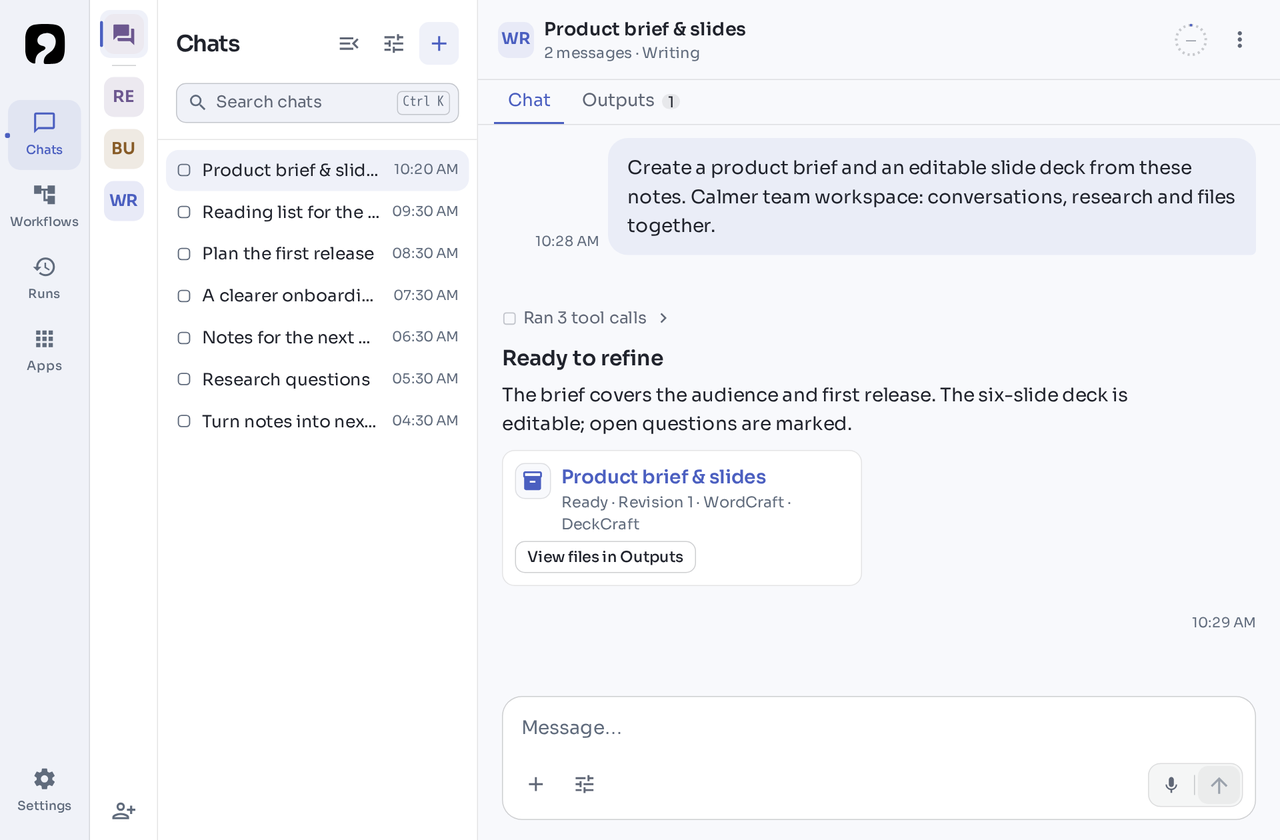
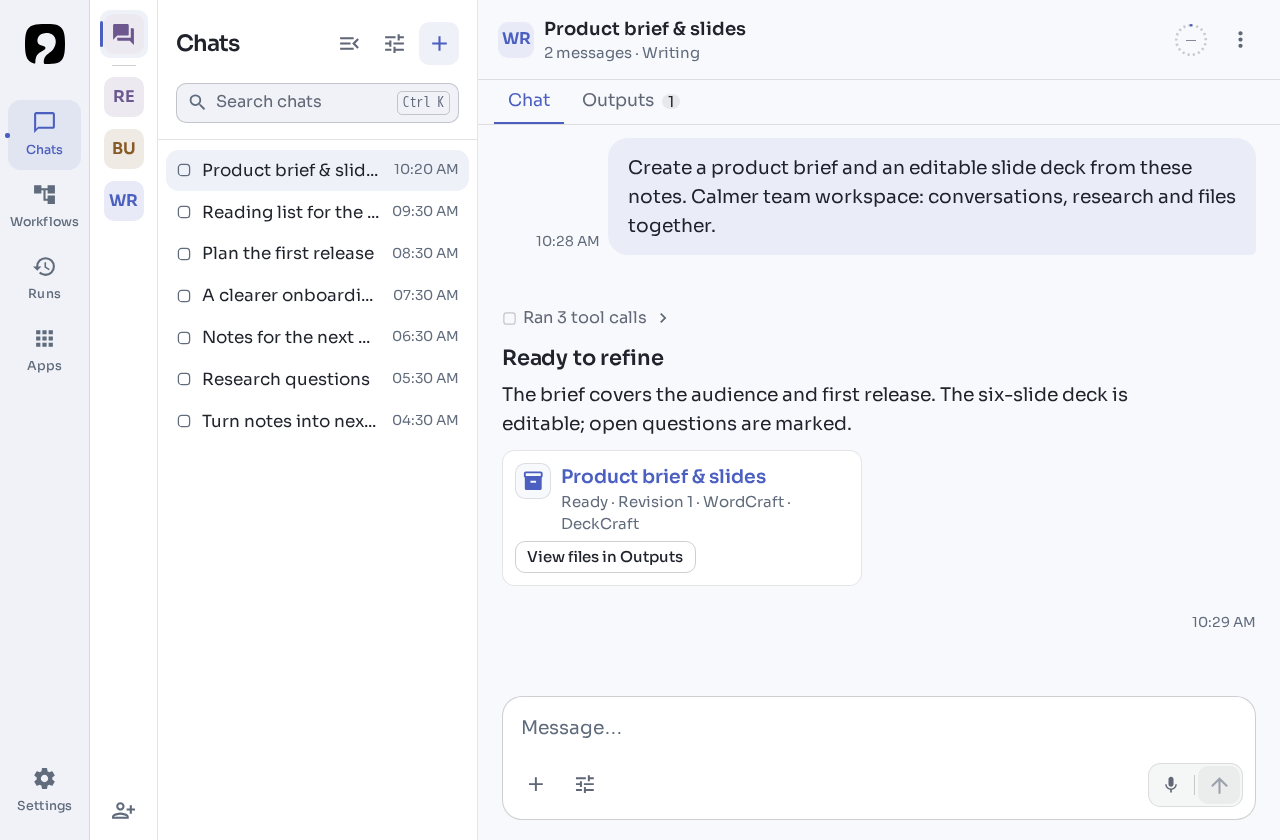
Capture small desktop product image at native DPR 1

diff --git a/services/website/assets/product/README.md b/services/website/assets/product/README.md
@@ -32,17 +32,21 @@ on loopback.
 | File | Natural pixels | Bytes | Encoding |
 | --- | --- | ---: | --- |
 | `desktop.webp` | 1920 × 1260 | 61,212 | Lossless WebP |
-| `desktop-small.webp` | 1280 × 840 | 117,910 | Lanczos downsample, lossless WebP |
+| `desktop-small.webp` | 1280 × 840 | 40,080 | Native DPR 1 browser capture, lossless WebP |
 | `phone.webp` | 780 × 1688 | 40,458 | Lossless WebP |
 | `desktop.png` | 1920 × 1260 | 174,012 | Original browser capture |
+| `desktop-small.png` | 1280 × 840 | 107,457 | Original browser capture at DPR 1 |
 | `phone.png` | 780 × 1688 | 127,793 | Original browser capture |
 
-Combined distribution WebPs: **219,580 bytes** (under 350 KB total). Lossless
-WebP decoding was checked pixel-for-pixel against both original PNGs. The small
-variant is a resize of the original desktop image, not a second composition.
+Combined distribution WebPs: **141,750 bytes** (under 200 KB total). Lossless
+WebP decoding was checked pixel-for-pixel against all three original PNGs. The
+small variant is a third actual browser capture, **not a resize**: it uses the
+same desktop viewport, fixture state and framing assertions, rendered directly
+at DPR 1. No resampling or lossy encoding softens the native UI text.
 
-Desktop: viewport **1280 × 840**, DPR **1.5**. Phone: viewport **390 × 844**, DPR
-**2**. Both use the unmodified Denkzeug light theme, original solid logo and
+Desktop: viewport **1280 × 840**, DPR **1.5**. Desktop-small: the same viewport
+**1280 × 840**, DPR **1**. Phone: viewport **390 × 844**, DPR **2**.
+All variants use the unmodified Denkzeug light theme, original solid logo and
 **125% interface size** (`html` font-size 20 px, no browser zoom).
 Locale `en-US`; timezone `UTC`; fixed browser clock `2026-06-15T10:30:00Z`;
 reduced motion. Capture environment: Node 24.22.2, Playwright 1.64.1, Chromium
@@ -64,22 +68,24 @@ The equivalent capture command is `node scripts/capture-website.mjs`. It starts
 and stops its own loopback Vite server, checks the rendered theme, font size,
 full desktop message/card framing, phone download-button visibility, lack of
 horizontal overflow, browser/HTTP errors, loading/error notices and accidental
-sends/settings writes. It retains `desktop.png`, `phone.png` and
-`capture-report.json` (viewports, clock, observed API requests and empty error
-lists). Two consecutive captures were verified byte-identical by SHA-256.
+sends/settings writes. It retains `desktop.png`, `desktop-small.png`, `phone.png`
+and `capture-report.json` (three variants, viewports, clock, observed API requests
+and empty error lists). Each retained image requires two consecutive identical
+browser screenshot frames. Desktop and phone were verified byte-identical by
+SHA-256 to their original captures. Chromium can vary the small idle SVG context
+meter's rasterization between browser contexts; content and layout are fixed.
 
 When UI or API contracts change, update only the fixture and capture assertions
 to the new real app contracts; do not inject layout overrides to preserve an old
-look. Re-run the command, inspect both PNGs and the small WebP visually, then
+look. Re-run the command, inspect all three PNGs and WebPs visually, then
 re-encode and update the table above. The dotted header ring with a dash is the
 app's idle context meter, not a loading spinner.
 
 ### Native PhotoCraft attempt and concrete infrastructure blocker
 
 PhotoCraft **0.22.0** was discovered via `craft_apps` / `craft_tools`. Its
-`doc_export` schema supports lossless WebP by omitting `quality`, and
-`image.imageSize` supports a 1280 × 840 Lanczos resize. However this session's
-PhotoCraft engine had **no filesystem read authority**:
+`doc_export` schema supports lossless WebP by omitting `quality`. However the
+original capture session's PhotoCraft engine had **no filesystem read authority**:
 
 ```text
 doc_open({"path":"/workspace/desktop.png"})
@@ -94,7 +100,7 @@ is claimed. With filesystem authority enabled, the intended native sequence is:
 ```text
 doc_open({"path":"desktop.png"})
 doc_export({"path":"desktop.webp","format":"webp"})
-command_run({"id":"image.imageSize","params":{"width":1280,"height":840,"resample":"lanczos"}})
+doc_open({"path":"desktop-small.png"})
 doc_export({"path":"desktop-small.webp","format":"webp"})
 doc_open({"path":"phone.png"})
 doc_export({"path":"phone.webp","format":"webp"})
@@ -111,17 +117,19 @@ uv pip install --python /workspace/image-env/bin/python Pillow==12.2.0
 from pathlib import Path
 from PIL import Image
 root = Path('services/website/assets/product')
-for name in ['desktop', 'phone']:
+for name in ['desktop', 'desktop-small', 'phone']:
     with Image.open(root / f'{name}.png') as image:
         image.save(root / f'{name}.webp', lossless=True, method=6)
         with Image.open(root / f'{name}.webp') as exported:
             assert exported.convert('RGB').tobytes() == image.convert('RGB').tobytes()
-        if name == 'desktop':
-            image.resize((1280, 840), Image.Resampling.LANCZOS).save(
-                root / 'desktop-small.webp', lossless=True, method=6)
 PY
 ```
 
-Capture checks passed on both viewports. Frontend unit/script tests: **247/247
+Capture checks passed for all three variants (two viewport sizes, three DPRs).
+The desktop-small follow-up preserves the original full desktop and phone PNG
+and WebP bytes unchanged; only the small distribution WebP is replaced, and its
+native browser PNG is retained. No PhotoCraft authority bypass was attempted.
+
+At the original capture commit, frontend unit/script tests: **247/247
 passed**. `vite build` passed. These checks do not claim a production deployment
 or real document-generation run.
